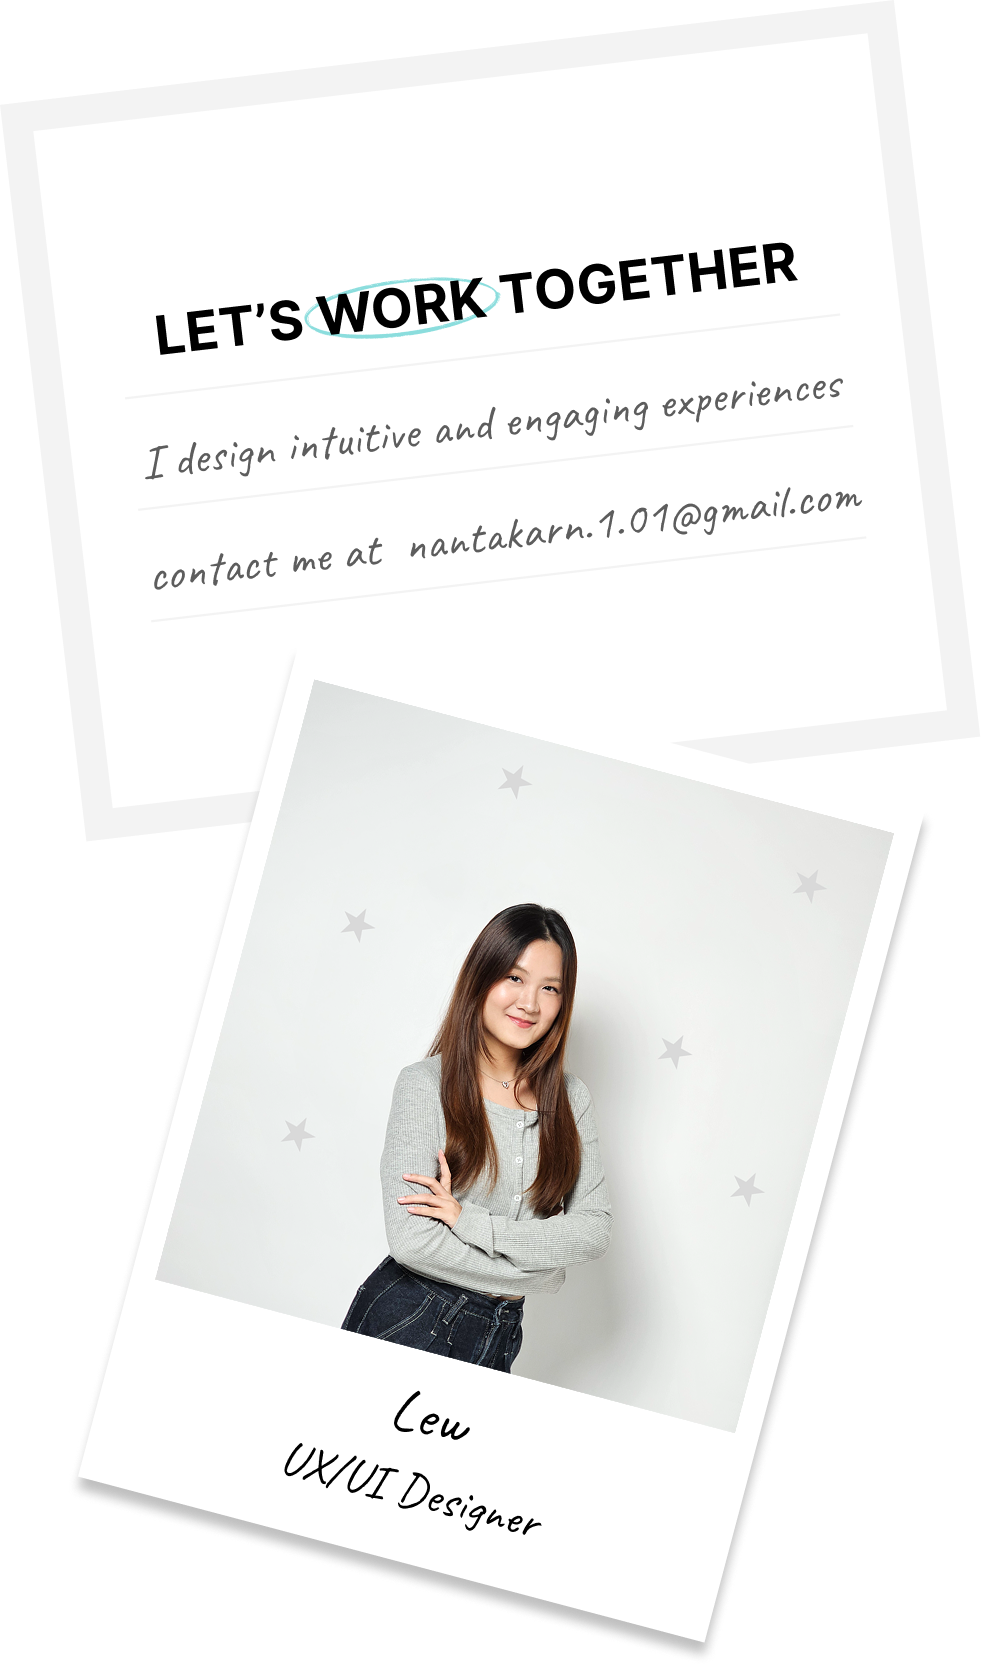
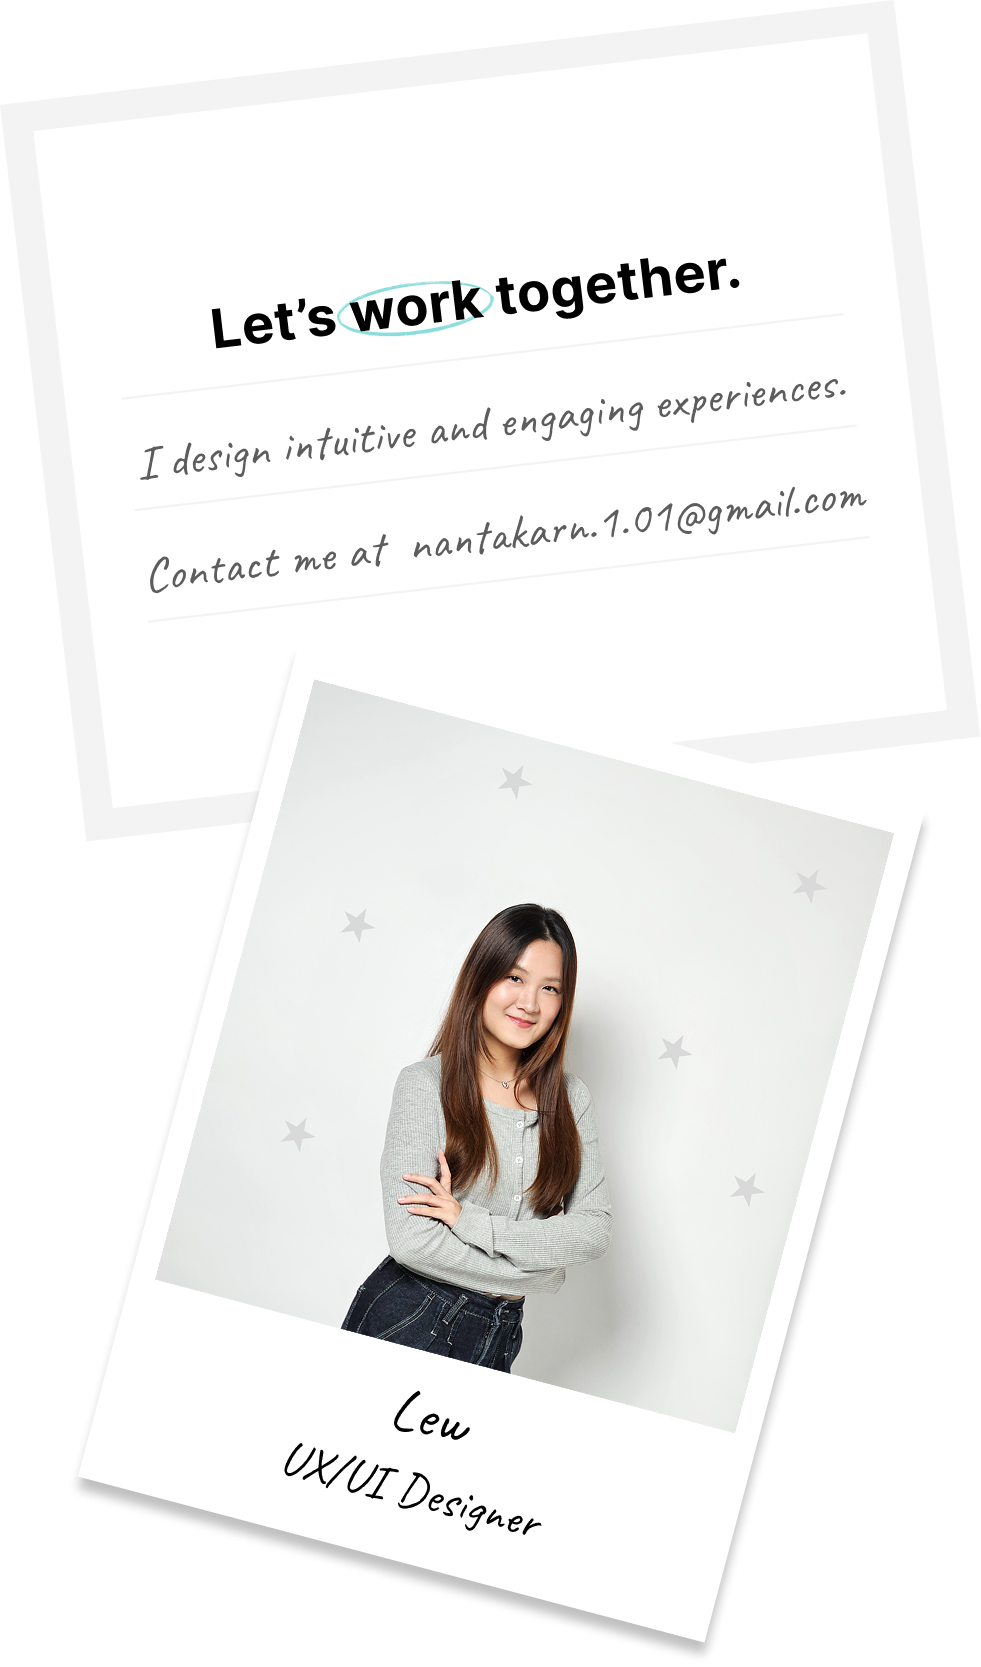
feat: update project images and enhance project descriptions for better clarity

diff --git a/src/content/config.ts b/src/content/config.ts
@@ -21,8 +21,8 @@ const projectsCollection = defineCollection({
       challenges: z.string().optional(),
       solutions: z.string().optional(),
       outcome: z.string().optional(),
-      heroMockup: image().optional(),
-      otherImages: z.array(image()).optional(),
+      heroMockup: z.union([image(), z.string()]).optional(),
+      otherImages: z.array(z.union([image(), z.string()])).optional(),
     }),
 });
 

diff --git a/src/content/projects/2-kaya/index.md b/src/content/projects/2-kaya/index.md
@@ -15,7 +15,7 @@ challenges: "The challenge was to present home design and construction services 
 solutions: "Designed a modern and elegant website with clean layouts, strong visual storytelling, and intuitive navigation to highlight projects, services, and the overall brand experience."
 outcome: "Delivered a polished digital platform that strengthens brand credibility, improves project presentation, and creates a more engaging experience for potential homeowners and clients."
 heroMockup: "./cover.png"
-otherImages: ["./other-images/1.png", "./other-images/2.png", "./other-images/3.png", "./other-images/4.png"]
+otherImages: ["./other-images/1.png", "./other-images/2.png", "./other-images/3.png", "./other-images/4.png" , "./other-images/5.png"]
 ---
 
 ## Project Overview

diff --git a/src/content/projects/1-remood/index.md b/src/content/projects/1-remood/index.md
@@ -15,7 +15,7 @@ challenges: "The challenge was to create a visually engaging website that showca
 solutions: "Designed a modern and visually driven interface with strong visual hierarchy, organized product presentation, and intuitive navigation to help users explore materials and design inspirations seamlessly."
 outcome: "Delivered a refined digital experience that enhances brand identity, improves product discoverability, and creates a more inspiring and user-friendly journey for customers and designers."
 heroMockup: "./cover.png"
-otherImages: ["./other-images/1.png", "./other-images/2.png", "./other-images/3.png"]
+otherImages: ["./other-images/1.png", "./other-images/2.png", "./other-images/3.png" , "./other-images/4.png"]
 ---
 
 ## Project Overview

diff --git a/src/content/projects/5-freight-express/index.md b/src/content/projects/5-freight-express/index.md
@@ -15,7 +15,7 @@ challenges: "The challenge was to present complex logistics and import-export se
 solutions: "Designed a modern and structured website with clear service categorization, intuitive navigation, and professional visual communication to simplify logistics information and improve the customer journey."
 outcome: "Delivered a professional digital platform that strengthens brand credibility, enhances service accessibility, and creates a more seamless experience for businesses seeking logistics and freight solutions."
 heroMockup: "./cover.png"
-otherImages: ["./other-images/1.png"]
+otherImages: ["./other-images/1.png" , "./other-images/2.png"]
 ---
 
 ## Project Overview
